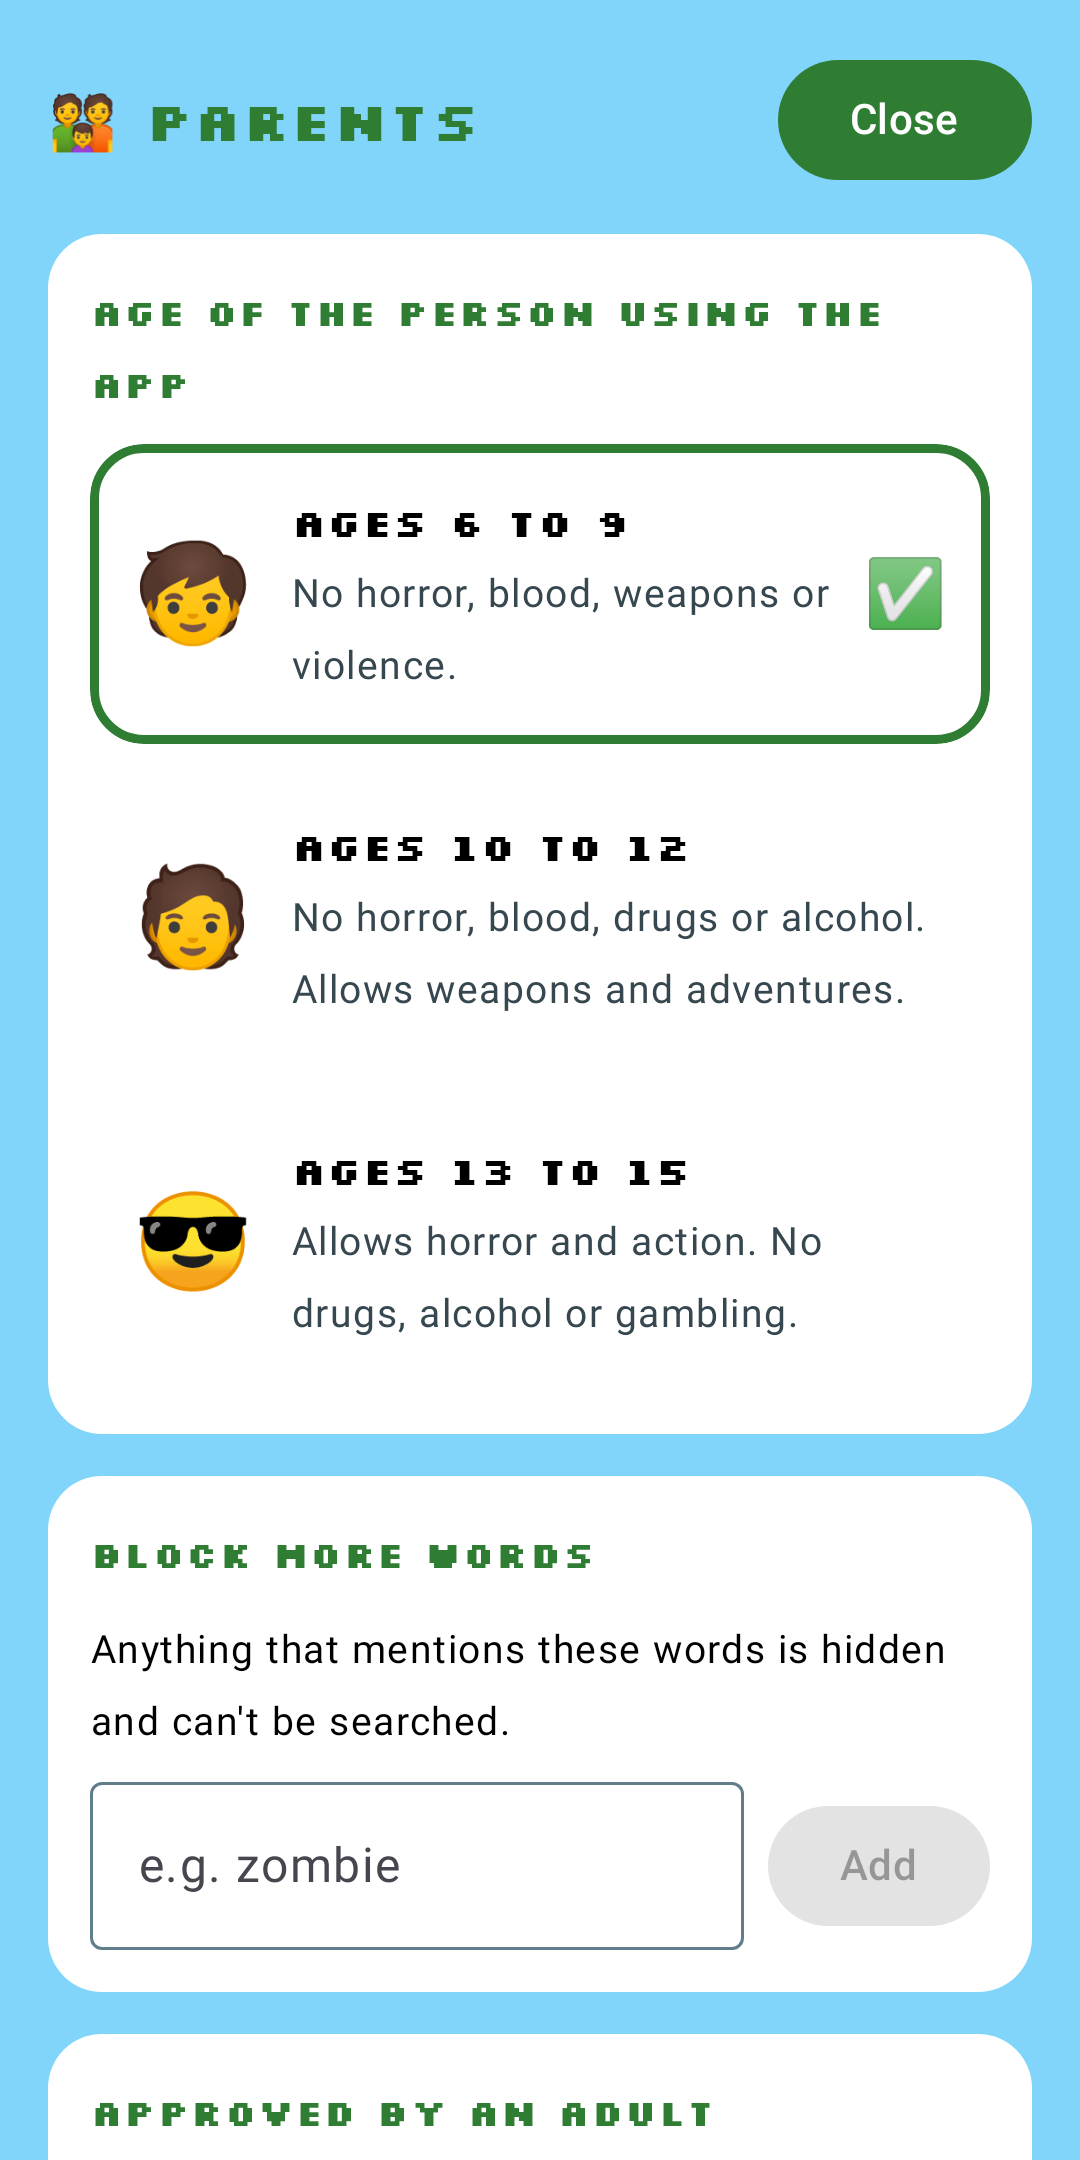
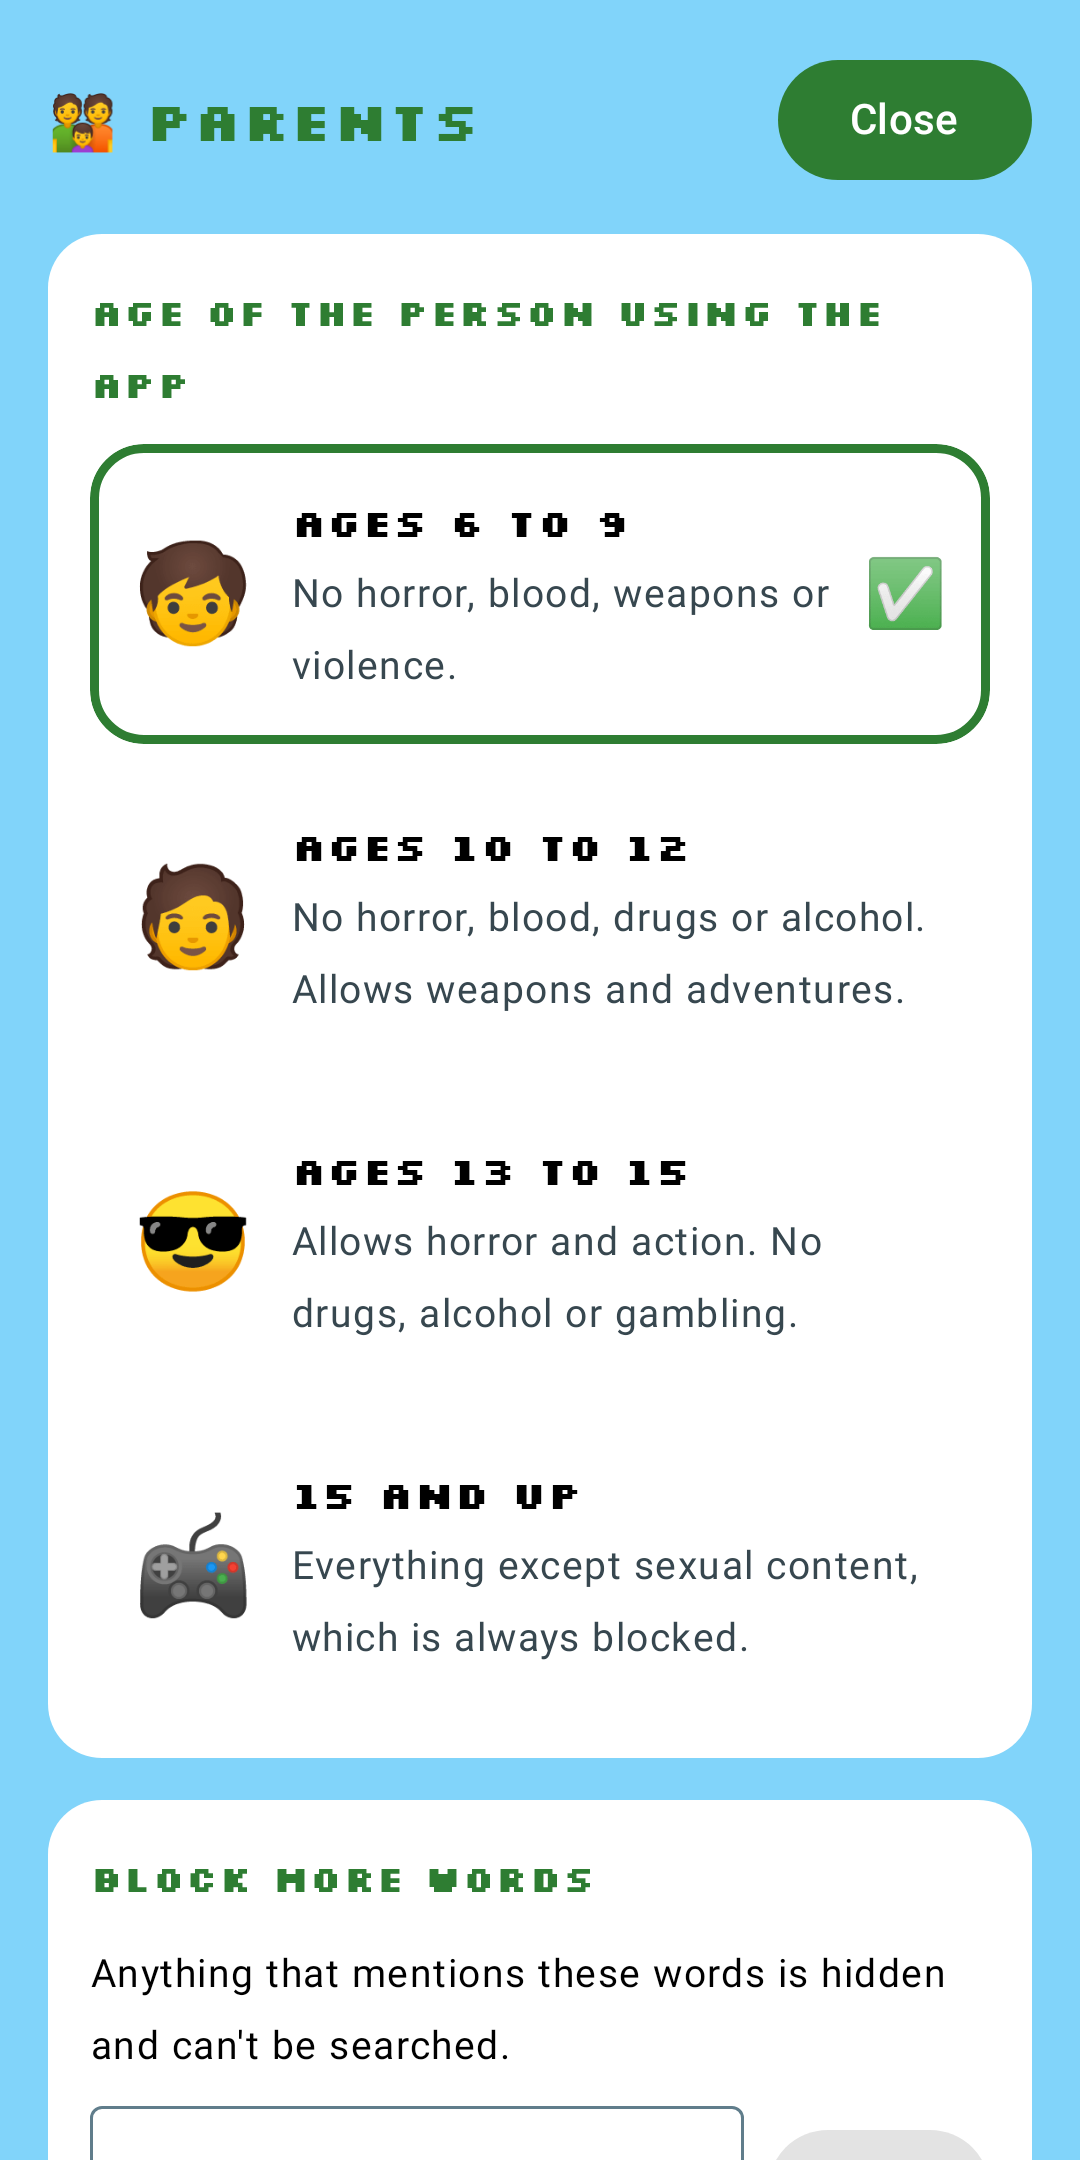
Perfil +15: todo menos contenido sexual; adolescentes pasa a 13 a 14

Changed region(s): [[0.0306, 0.6514, 0.9778, 1.0], [0.7333, 0.7134, 0.8556, 0.7755]]

diff --git a/app/src/test/java/com/appmcpe/hub/ParentalTest.kt b/app/src/test/java/com/appmcpe/hub/ParentalTest.kt
@@ -57,6 +57,19 @@ class ParentalTest {
     }
 
     @Test
+    fun over15AllowsEverythingExceptSexual_withoutAdultMode() {
+        val s = settings(AgeGroup.OVER15)
+        for (m in listOf(
+            mod("Beer Brewing", "Make cerveza"), mod("Scary Horror Mansion"), mod("Gun Pack"),
+            mod("Cool map 18+"), mod("Casino Royale", cats = listOf(8833)),
+        )) assertFalse(m.name, blocked(m, s))
+        assertFalse(ContentFilter.isQueryBlocked("vodka", s))
+        assertTrue(ContentFilter.check(mod("NSFW Skins"), s).permanent)
+        assertTrue(ContentFilter.isQueryBlocked("porn", s))
+        assertTrue(AgeGroup.OVER15 in AgeGroup.selectable)
+    }
+
+    @Test
     fun sexualContentIsNeverAllowed_notEvenInAdultMode_orByParentApproval() {
         val m = mod("NSFW Skins", id = 7)
         val adult = settings(AgeGroup.TEEN, adult = true)

diff --git a/app/src/main/java/com/appmcpe/hub/parental/ParentalModels.kt b/app/src/main/java/com/appmcpe/hub/parental/ParentalModels.kt
@@ -9,8 +9,14 @@ enum class AgeGroup(@StringRes val labelRes: Int, val emoji: String, @StringRes 
     PRE(R.string.age_pre, "🧑", R.string.age_pre_desc),
     TEEN(R.string.age_teen, "😎", R.string.age_teen_desc),
 
+    /** +15 elegido por un adulto: sin filtro de edad, pero lo sexual sigue bloqueado como en todos. */
+    OVER15(R.string.age_over15, "🎮", R.string.age_over15_desc),
+
     /** Solo se activa desde el modo adulto escondido; no aparece en la lista de edades. */
     ADULT(R.string.age_adult, "🔓", R.string.age_adult_desc);
+
+    /** Sin filtro de edad ni marcas "18+": solo queda el bloqueo permanente de lo sexual. */
+    val unfiltered: Boolean get() = this == OVER15 || this == ADULT
 
     companion object {
         /** Las edades que un adulto puede elegir normalmente. */

diff --git a/app/src/main/java/com/appmcpe/hub/parental/ContentFilter.kt b/app/src/main/java/com/appmcpe/hub/parental/ContentFilter.kt
@@ -49,7 +49,7 @@ object ContentFilter {
 
     /** Marcas como "18+" o "adults only": bloquean a todos salvo en modo adulto. */
     private fun hasAdultMarker(raw: String, group: AgeGroup): Boolean {
-        if (group == AgeGroup.ADULT) return false
+        if (group.unfiltered) return false
         val lower = raw.lowercase()
         return ContentTerms.ADULT_ONLY_RAW.any { it.containsMatchIn(lower) }
     }
@@ -59,7 +59,7 @@ object ContentFilter {
         AgeGroup.KIDS -> mature + kidsOnly + adultOnly
         AgeGroup.PRE -> mature + adultOnly
         AgeGroup.TEEN -> adultOnly
-        AgeGroup.ADULT -> emptyList()
+        AgeGroup.OVER15, AgeGroup.ADULT -> emptyList()
     }
 
     /** ¿Está bloqueada una subcategoría entera (p. ej. Horror) para este perfil? */
